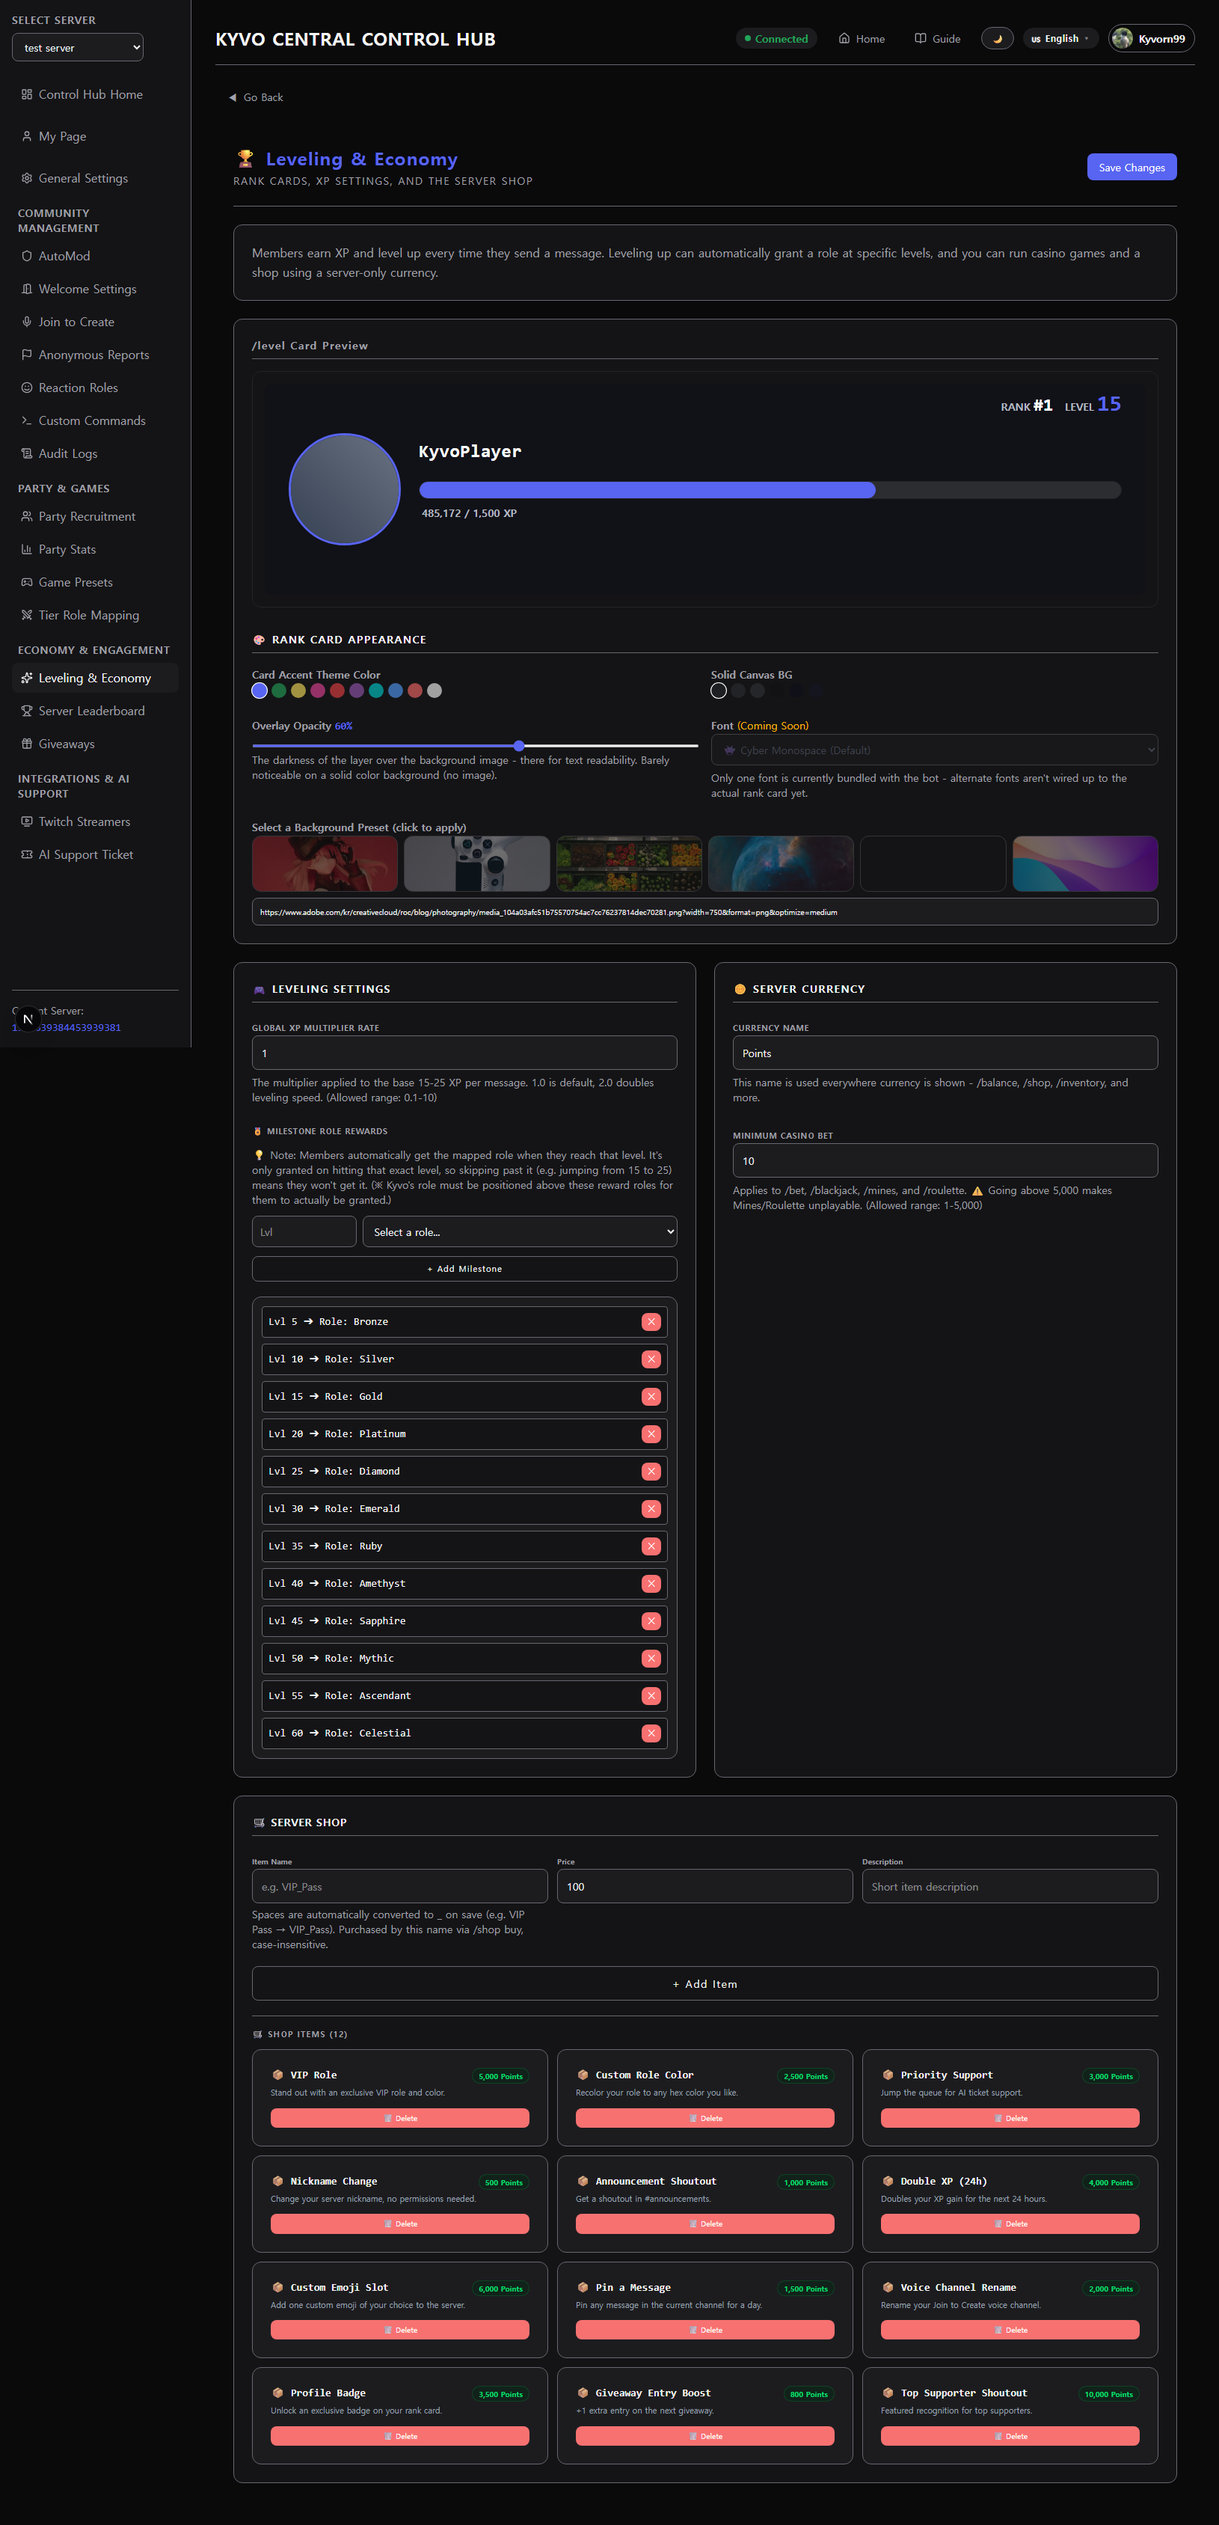
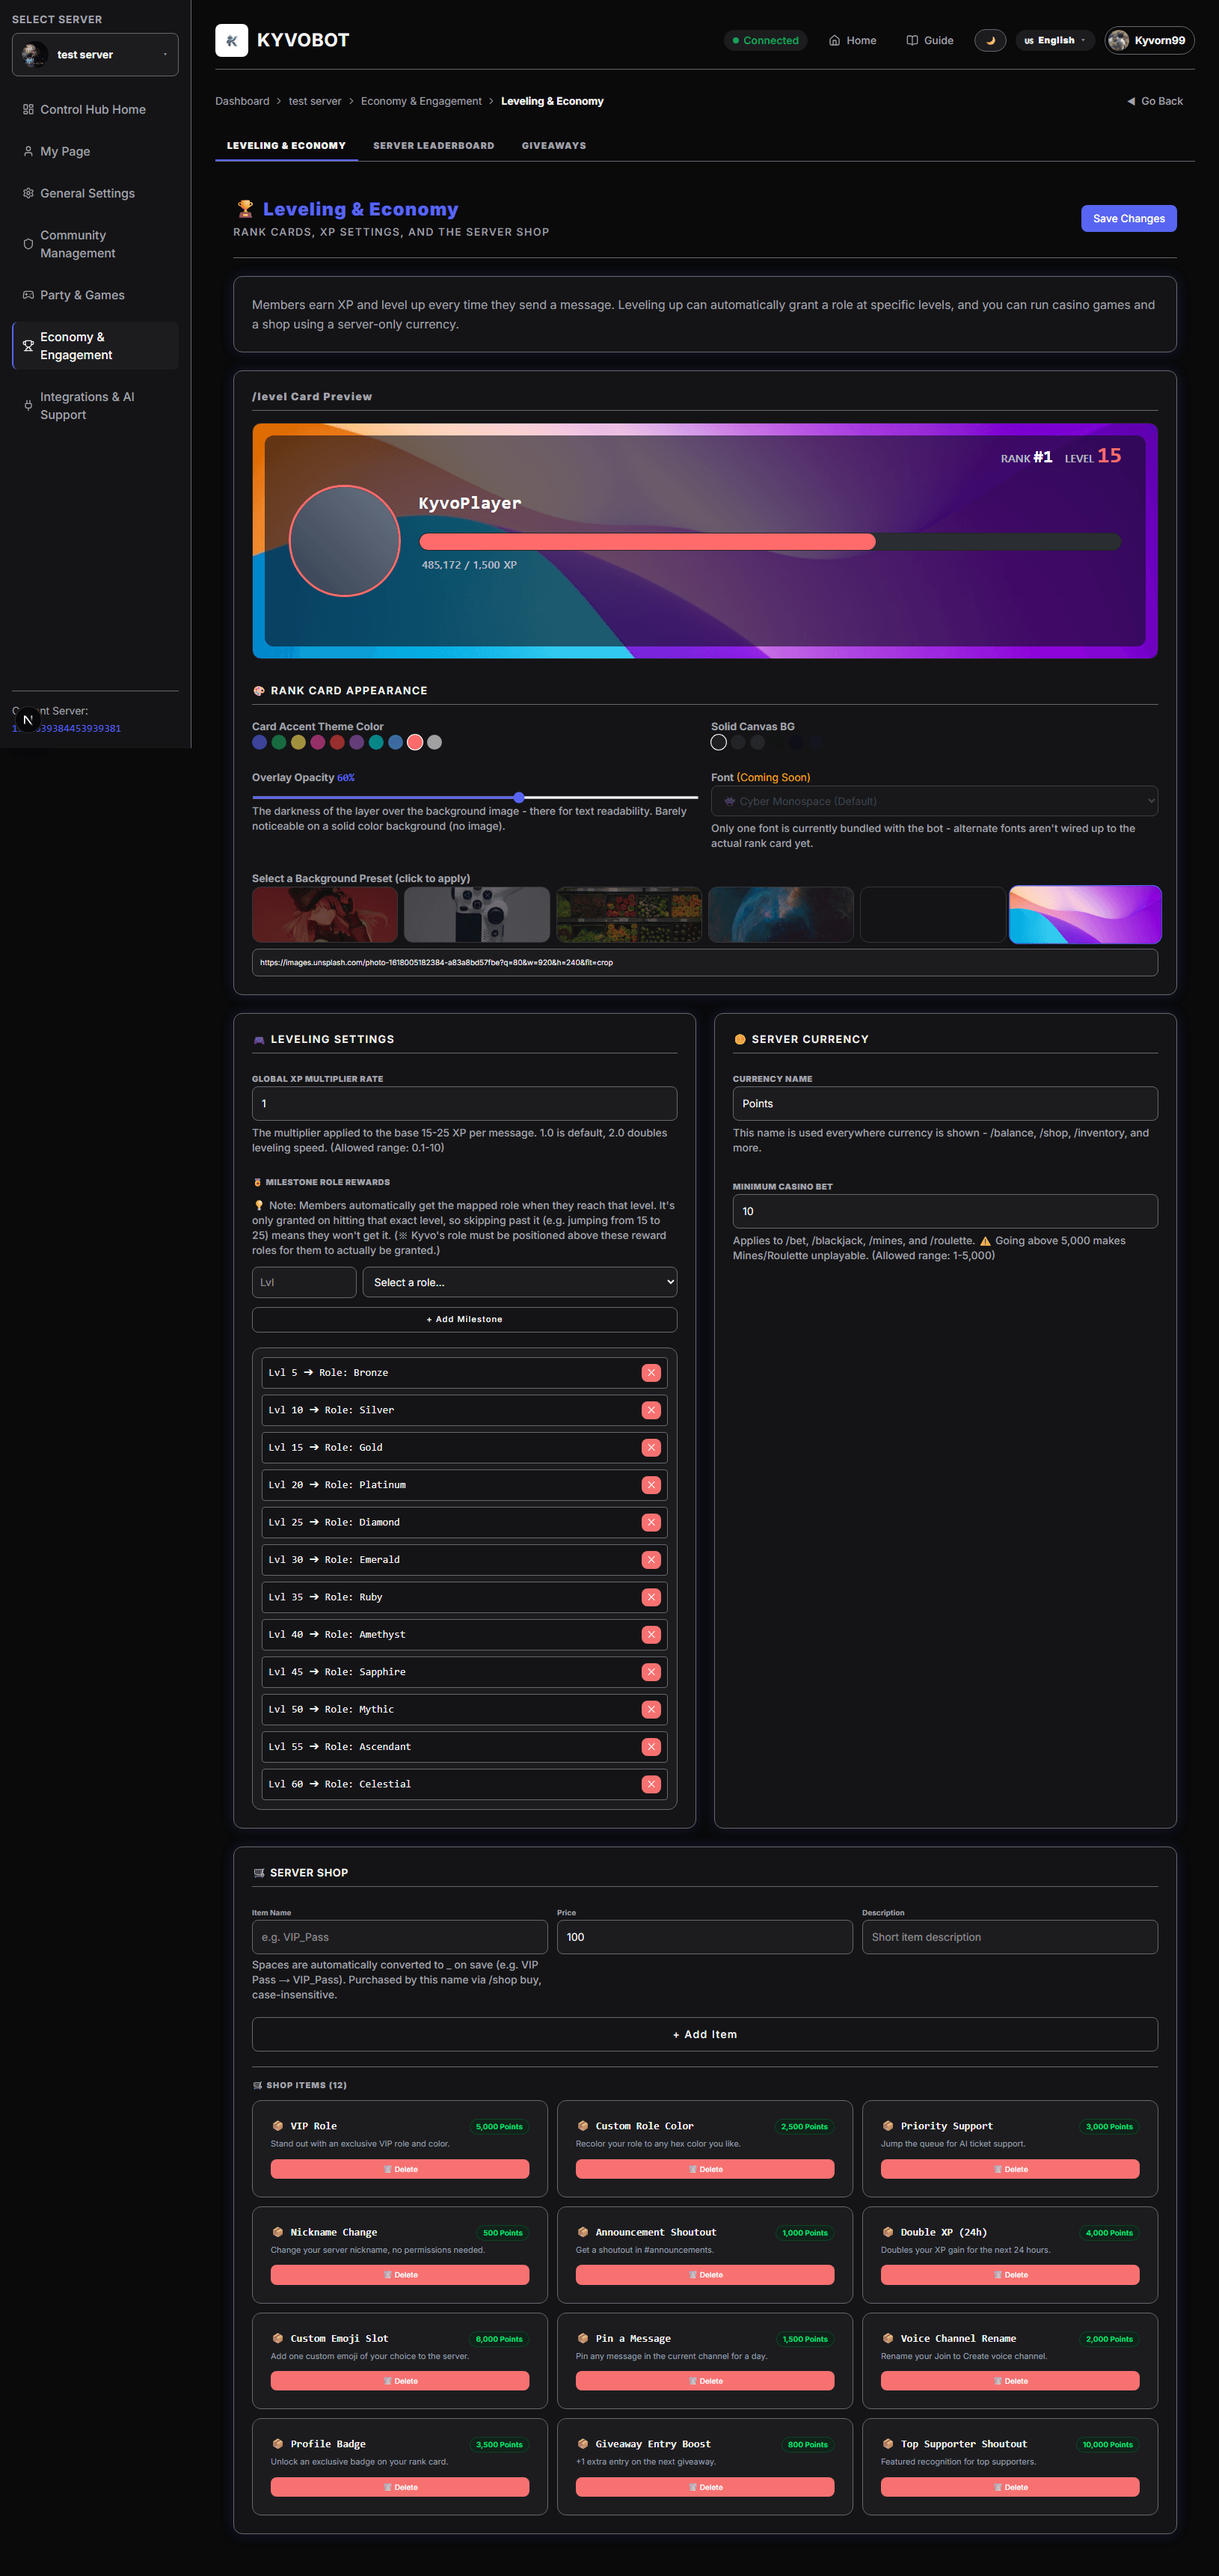
chore: recapture leveling dashboard screenshots for new sidebar/breadcrumb UI
The landing page's leveling-dashboard-en/ko.png screenshots predated the
sidebar restructure, breadcrumb, mascot, and card shadow updates. Recaptured
against the current dashboard UI and updated app/page.tsx's reserved
imageWidth/imageHeight to the new measured dimensions.

diff --git a/app/page.tsx b/app/page.tsx
@@ -413,11 +413,11 @@ export default async function RootPage() {
             // resolveLocalizedImage가 반대 언어 파일로 폴백하므로 깨진 이미지가 뜰 일이 없다.
             // 최종 ?? 은 두 언어 파일이 전부 사라지는(배포 사고급) 극단적 상황에 대비한 타입 안전용.
             imageSrc={resolveLocalizedImage('leveling-dashboard', lang) ?? '/images/features/leveling-dashboard-en.png'}
-            // 🛡 leveling-dashboard-en.png(1630x3375) 실측 비율 - ko 버전(1630x3329)과 정확히
+            // 🛡 leveling-dashboard-en.png(1630x3443) 실측 비율 - ko 버전(1630x3377)과 정확히
             // 같진 않지만 레이아웃 예약용 근사치면 충분하다(실제 렌더는 w-full h-auto가 로드된
             // 파일 크기를 그대로 따라감).
             imageWidth={1630}
-            imageHeight={3375}
+            imageHeight={3443}
           />
         </RevealOnScroll>
       </section>
